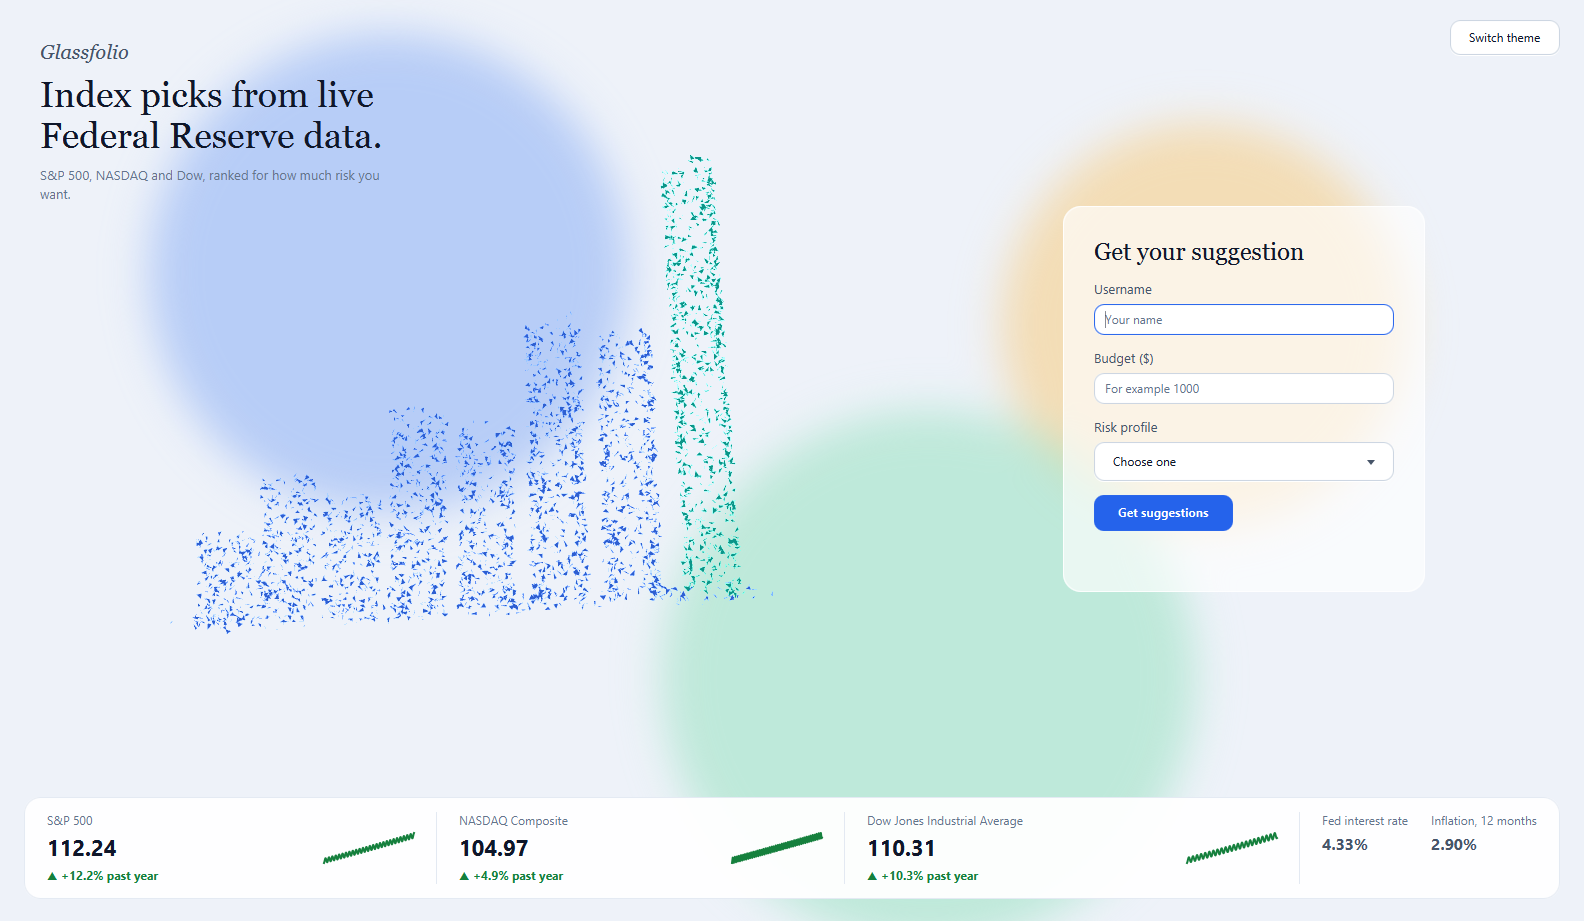
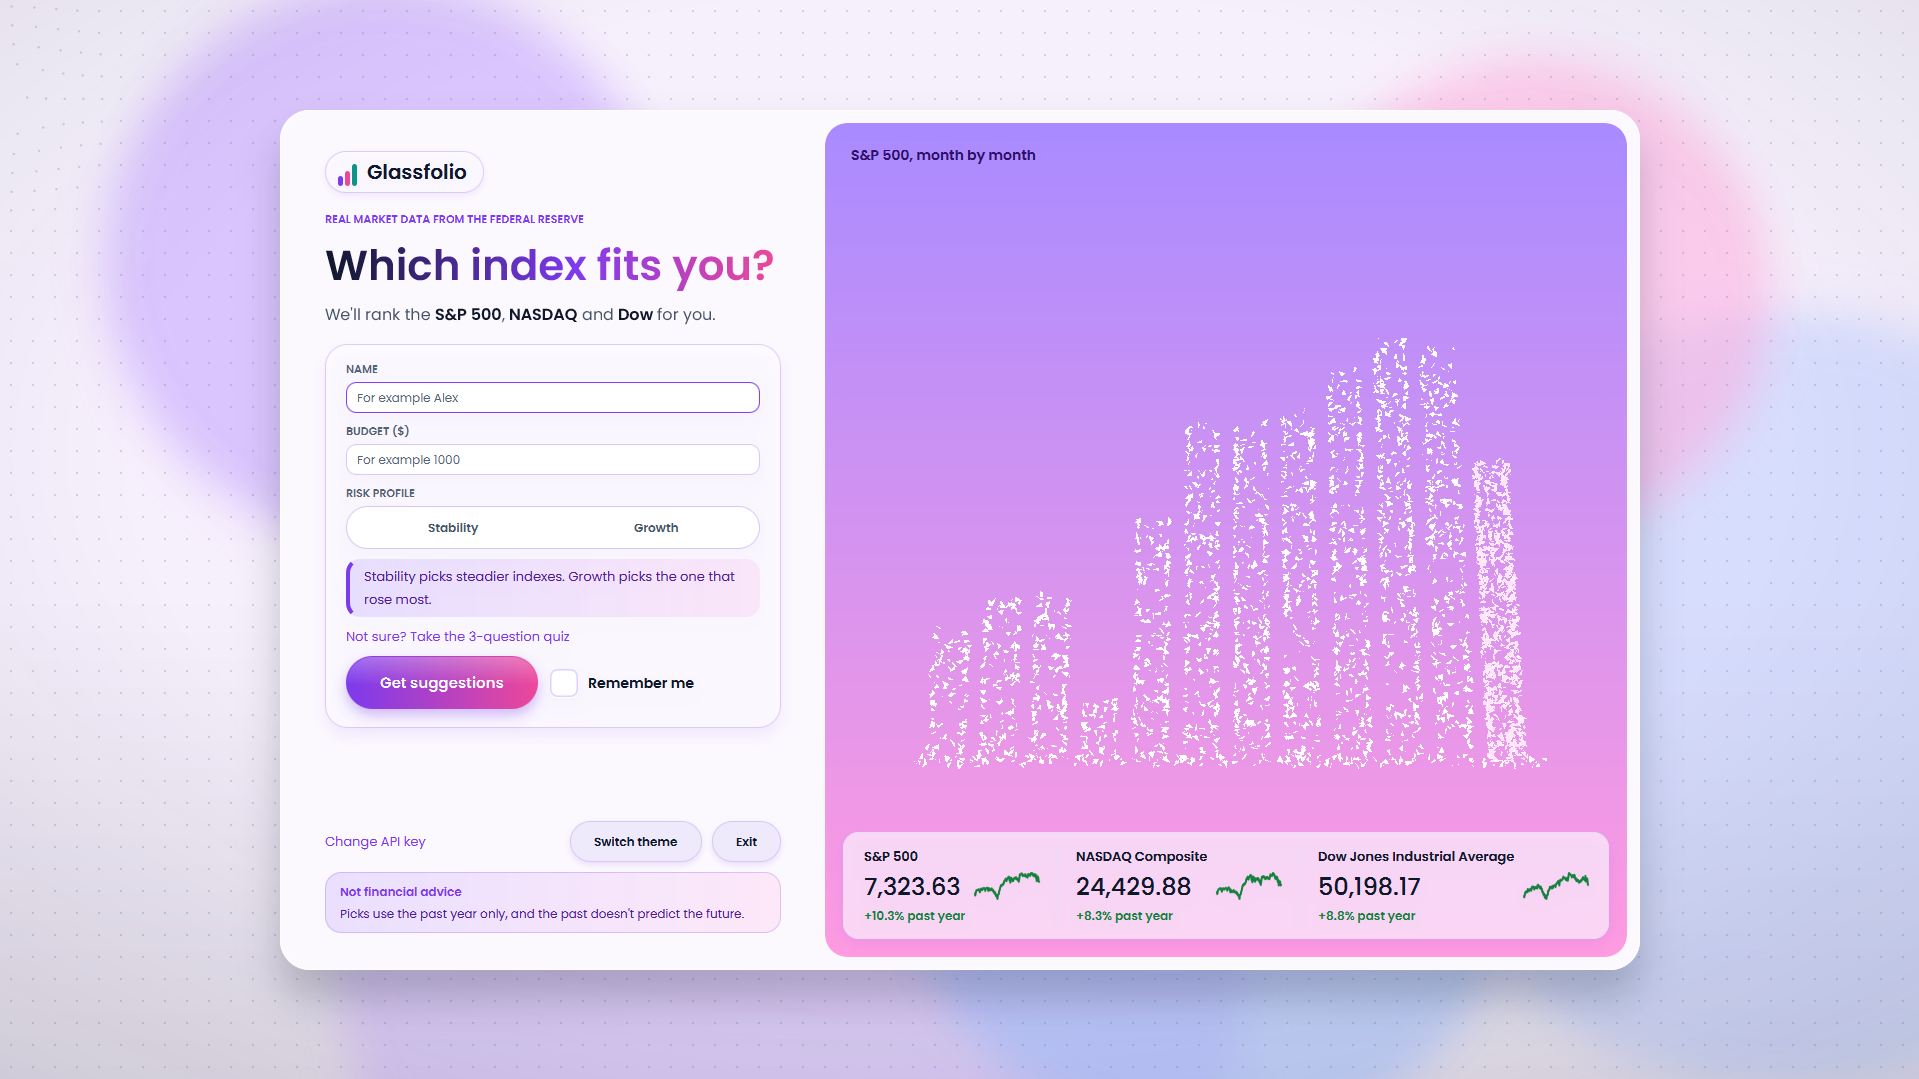
Update README screenshots and features for the new look

diff --git a/test/ModelTest.java b/test/ModelTest.java
@@ -19,12 +19,12 @@ import java.util.prefs.BackingStoreException;
 import java.util.prefs.Preferences;
 
 /**
- * Checks the model classes (no JavaFX or internet needed). Uses a fake
+ * Checks the model classes (no internet needed). Uses a fake
  * MarketDataSource instead of FRED, so the results are always the same.
  *
  * Run from the project folder (Java 25):
- *   javac -d out/test -sourcepath src test/ModelTest.java
- *   java -cp out/test ModelTest
+ *   javac -d out/test --module-path <javafx-sdk>/lib --add-modules javafx.controls -sourcepath src test/ModelTest.java
+ *   java --module-path <javafx-sdk>/lib --add-modules javafx.controls -cp out/test ModelTest
  */
 public class ModelTest {
     private static final double TOLERANCE = 1e-9;

diff --git a/README.md b/README.md
@@ -2,21 +2,24 @@
 
 A Java desktop app that suggests a U.S. market index (S&P 500, NASDAQ Composite or Dow Jones) based on your risk profile, using live data from FRED (Federal Reserve Economic Data).
 
-![Results screen](docs/storyboard/2-results.png)
+![Results screen](docs/storyboard/light-results.png)
 
-*Screenshot with made-up sample data.*
+*Results screen with real FRED data (light theme).*
 
 ## What it does
 
 - **Stability** profile: picks the index whose price moved the least over the last year (lowest volatility).
 - **Growth** profile: picks the index that rose the most over the last year.
-- Shows each suggestion with its reason, price, 1-year change, volatility, biggest drop, year range and what your budget would be worth if you had invested it a year ago.
+- Shows each suggestion with its reason, price, 1-year change, volatility, biggest drop, year range and what your budget would be worth if you had invested it a year ago, plus a worst case and the value after inflation.
+- A "Why this pick?" panel on each result spells out the rule and the numbers behind it.
 - Lists the indexes it left out and why, and switches to the other profile's picks with one click.
-- Charts all three indexes over the past year.
+- Charts all three indexes over 1 week, 1 month, 3 months or 1 year.
 - Shows the current Fed interest rate, inflation and unemployment.
 - Compares each pick with keeping the same budget in safe savings (the past year's average 3-month Treasury bill rate).
 - The start screen shows a live market overview and explains each risk profile in plain words.
-- Light and dark themes, switchable from either screen.
+- Not sure which profile fits? A 3-question risk quiz suggests one.
+- "Remember me" (off by default) welcomes you back with your last name, budget and profile.
+- Light theme (pink-violet glass) at launch and a dark theme (teal and lime), switchable from either screen.
 - Opens full screen; press F11 or Esc to switch to a window.
 
 ## Requirements
@@ -66,7 +69,11 @@ java --module-path "<path to javafx-sdk>\lib" --add-modules javafx.controls --en
 
 ## Tests
 
-`test/ModelTest.java` checks the math, strategies, ranking and input validation with fake data (no internet or JavaFX needed). Run commands are at the top of the file.
+`test/ModelTest.java` checks the math, strategies, ranking and input validation with fake data (no internet needed). It needs the JavaFX SDK on the module path, because a few checks use GUI helpers:
+```powershell
+javac -d out\test --module-path "<path to javafx-sdk>\lib" --add-modules javafx.controls -sourcepath src test\ModelTest.java
+java --module-path "<path to javafx-sdk>\lib" --add-modules javafx.controls -cp out\test ModelTest
+```
 
 ## Project layout
 
@@ -77,7 +84,7 @@ java --module-path "<path to javafx-sdk>\lib" --add-modules javafx.controls --en
 | `glassfolio.model` | Rules and market objects | `Strategy`, `Stability`, `Growth`, `Suggestion`, `User`, `Market`, `MarketConditions`, `Stock`, `EconomySnapshot`, `Period`, `RiskQuiz` |
 | `glassfolio.data` | Loading data from FRED | `MarketDataSource`, `FredClient`, `HistoryCache`, `ApiKeyStore`, `VisitStore` |
 
-The model never imports the GUI, so the rules can be tested without JavaFX.
+The model never imports the GUI, so the rules don't depend on the screens.
 
 Class diagram, sequence diagram, storyboard and [security and QA](docs/design.md#security-and-qa): [docs/design.md](docs/design.md). User-facing changes: [docs/CHANGELOG.md](docs/CHANGELOG.md).
 
